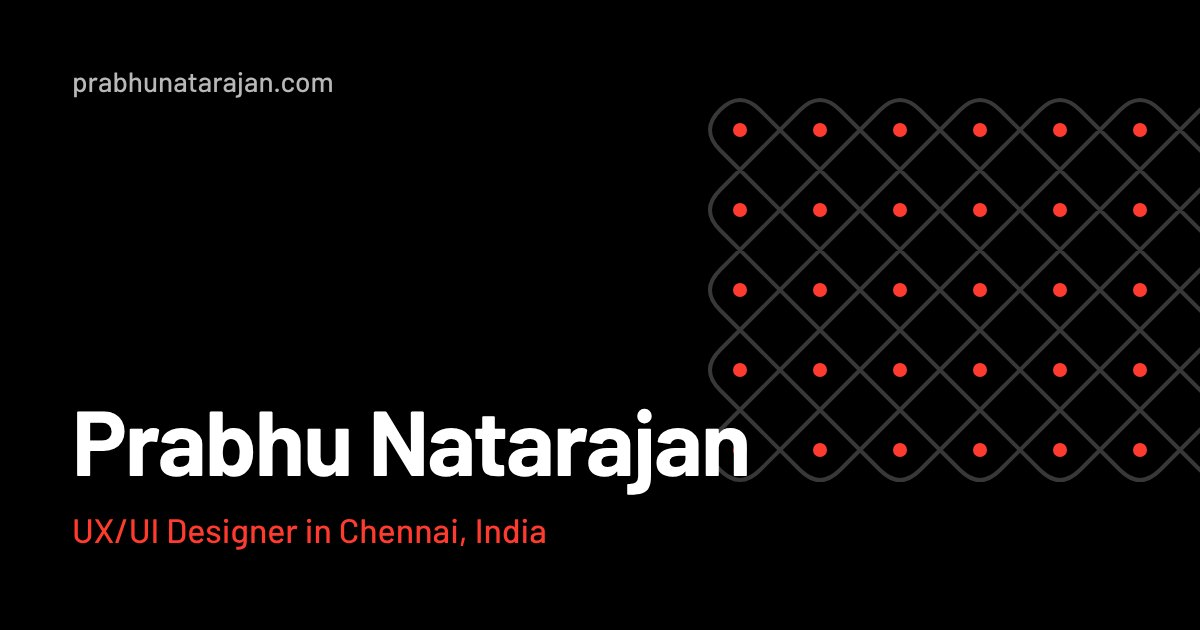
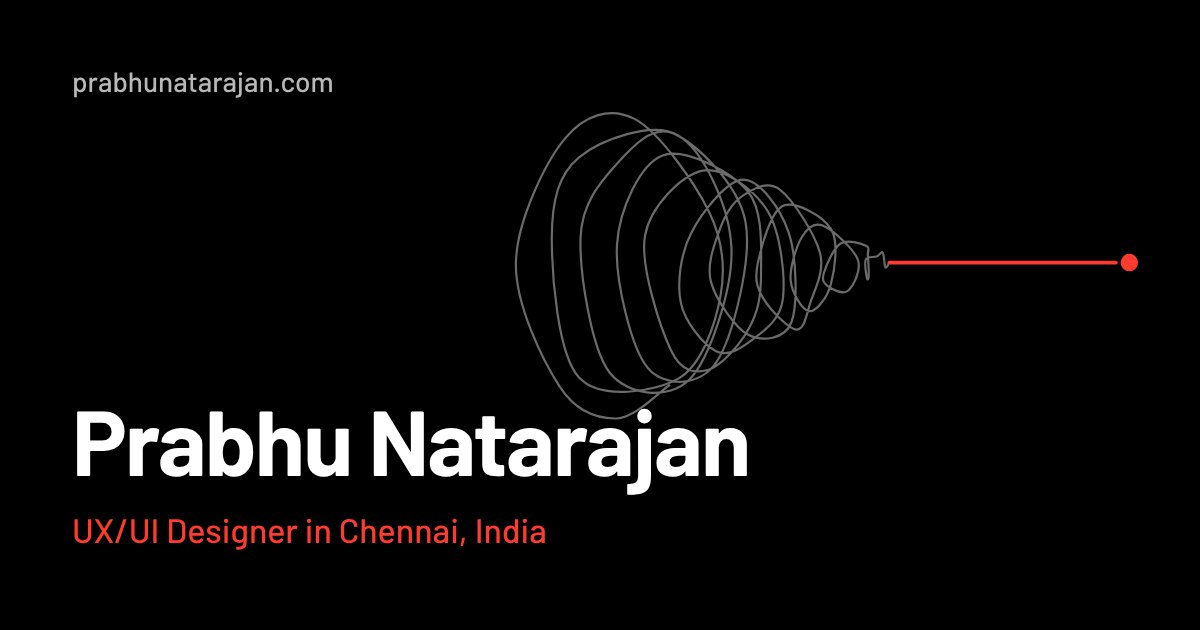
Hero section updated
Hero section updates

diff --git a/index.html b/index.html
@@ -15,10 +15,10 @@
 <meta property="og:title" content="Prabhu Natarajan — UX/UI Designer in Chennai, India">
 <meta property="og:description" content="UX/UI designer and HFI Certified Usability Architect (CUA)™. Research-led, accessible interfaces for eCommerce, fintech, mortgage and healthcare.">
 <meta property="og:url" content="https://www.prabhunatarajan.com/">
-<meta property="og:image" content="https://www.prabhunatarajan.com/assets/img/og-image.jpg">
+<meta property="og:image" content="https://www.prabhunatarajan.com/assets/img/og-image.jpg?v=2">
 <meta property="og:image:width" content="1200">
 <meta property="og:image:height" content="630">
-<meta property="og:image:alt" content="Prabhu Natarajan, UX/UI Designer — a kolam line pattern in black and red">
+<meta property="og:image:alt" content="Prabhu Natarajan, UX/UI Designer — user-experience line art in black and red">
 <meta property="og:locale" content="en_IN">
 <meta property="profile:first_name" content="Prabhu">
 <meta property="profile:last_name" content="Natarajan">
@@ -26,7 +26,7 @@
 <meta name="twitter:title" content="Prabhu Natarajan — UX/UI Designer in Chennai, India">
 <meta name="twitter:description" content="Research-led, accessible interfaces for eCommerce, fintech, mortgage and healthcare.">
 <meta name="twitter:image:alt" content="Prabhu Natarajan, UX/UI Designer in Chennai, India">
-<meta name="twitter:image" content="https://www.prabhunatarajan.com/assets/img/og-image.jpg">
+<meta name="twitter:image" content="https://www.prabhunatarajan.com/assets/img/og-image.jpg?v=2">
 
 <link rel="icon" href="/favicon.svg?v=4" type="image/svg+xml">
 <link rel="icon" href="/favicon-32.png?v=4" sizes="32x32" type="image/png">
@@ -35,7 +35,7 @@
 
 <link rel="preload" href="assets/fonts/barlow-700.woff2" as="font" type="font/woff2" crossorigin>
 <link rel="preload" href="assets/fonts/barlow-400.woff2" as="font" type="font/woff2" crossorigin>
-<link rel="stylesheet" href="assets/css/style.css?v=20261120g">
+<link rel="stylesheet" href="assets/css/style.css?v=20261120h">
 <script>document.documentElement.classList.replace('no-js','js')</script>
 
 <script type="application/ld+json">
@@ -405,12 +405,10 @@
       <div class="pillar pillar--l"><svg class="pillar__cap" viewBox="0 0 120 220" focusable="false"><path fill="none" stroke="currentColor" stroke-width="1.6" stroke-linecap="round" stroke-linejoin="round" d="M2 2H96V14H2Z"/><path fill="none" stroke="currentColor" stroke-width="1.6" stroke-linecap="round" stroke-linejoin="round" d="M6 14v8h5v-8M15 14v8h5v-8M24 14v8h5v-8M33 14v8h5v-8M42 14v8h5v-8M51 14v8h5v-8M60 14v8h5v-8M69 14v8h5v-8M78 14v8h5v-8M87 14v8h5v-8"/><g class="pl-accent"><circle cx="8" cy="28" r="1.6"/><circle cx="16" cy="28" r="1.6"/><circle cx="24" cy="28" r="1.6"/><circle cx="32" cy="28" r="1.6"/><circle cx="40" cy="28" r="1.6"/><circle cx="48" cy="28" r="1.6"/><circle cx="56" cy="28" r="1.6"/><circle cx="64" cy="28" r="1.6"/><circle cx="72" cy="28" r="1.6"/><circle cx="80" cy="28" r="1.6"/><circle cx="88" cy="28" r="1.6"/></g><path fill="none" stroke="currentColor" stroke-width="1.6" stroke-linecap="round" stroke-linejoin="round" d="M4 34H92"/><path fill="none" stroke="currentColor" stroke-width="1.6" stroke-linecap="round" stroke-linejoin="round" d="M80 34H96Q114 34 114 52Q114 66 100 66Q90 66 90 56Q90 48 98 48Q104 48 104 54"/><path fill="none" stroke="currentColor" stroke-width="1.6" stroke-linecap="round" stroke-linejoin="round" d="M80 66Q96 70 104 84Q108 92 108 104"/><path fill="none" stroke="currentColor" stroke-width="1.6" stroke-linecap="round" stroke-linejoin="round" d="M84 46Q86 58 80 66"/><path fill="none" stroke="currentColor" stroke-width="1.6" stroke-linecap="round" stroke-linejoin="round" d="M92 74q6 2 8 8M88 80q5 2 6 7"/><g class="pl-pendant"><path fill="none" stroke="currentColor" stroke-width="1.6" stroke-linecap="round" stroke-linejoin="round" d="M108 104V114"/><path fill="none" stroke="currentColor" stroke-width="1.6" stroke-linecap="round" stroke-linejoin="round" d="M101 114h14v5h-14z"/><path fill="none" stroke="currentColor" stroke-width="1.6" stroke-linecap="round" stroke-linejoin="round" d="M100 119Q100 140 108 152Q116 140 116 119Z"/><path fill="none" stroke="currentColor" stroke-width="1.6" stroke-linecap="round" stroke-linejoin="round" d="M104 120Q104 136 108 146M112 120Q112 136 108 146M100 128h16M101 136h14"/><path fill="none" stroke="currentColor" stroke-width="1.6" stroke-linecap="round" stroke-linejoin="round" d="M108 152v8"/><circle class="pl-accent-fill" cx="108" cy="163" r="2.6"/></g><path fill="none" stroke="currentColor" stroke-width="1.6" stroke-linecap="round" stroke-linejoin="round" d="M6 34V220M80 34V220"/><path fill="none" stroke="currentColor" stroke-width="1.6" stroke-linecap="round" stroke-linejoin="round" d="M14 44H72"/><path fill="none" stroke="currentColor" stroke-width="1.6" stroke-linecap="round" stroke-linejoin="round" d="M18 48Q10 62 14 78Q20 100 43 104Q66 100 72 78Q76 62 68 48Z"/><path fill="none" stroke="currentColor" stroke-width="1.6" stroke-linecap="round" stroke-linejoin="round" d="M24 60Q43 72 62 60M22 72Q43 86 64 72"/><circle class="pl-accent-fill" cx="43" cy="88" r="2.4"/><path fill="none" stroke="currentColor" stroke-width="1.6" stroke-linecap="round" stroke-linejoin="round" d="M10.0 128Q10.6 112.0 15.5 112.0Q20.4 112.0 21.0 128M15.5 128V120.0M21.0 128Q21.6 112.0 26.5 112.0Q31.4 112.0 32.0 128M26.5 128V120.0M32.0 128Q32.5 112.0 37.5 112.0Q42.5 112.0 43.0 128M37.5 128V120.0M43.0 128Q43.5 112.0 48.5 112.0Q53.5 112.0 54.0 128M48.5 128V120.0M54.0 128Q54.5 112.0 59.5 112.0Q64.5 112.0 65.0 128M59.5 128V120.0M65.0 128Q65.5 112.0 70.5 112.0Q75.5 112.0 76.0 128M70.5 128V120.0"/><path fill="none" stroke="currentColor" stroke-width="1.6" stroke-linecap="round" stroke-linejoin="round" d="M10 128H76M10 134H76"/><path fill="none" stroke="currentColor" stroke-width="1.6" stroke-linecap="round" stroke-linejoin="round" d="M14 140H72L68 150H18Z"/><path fill="none" stroke="currentColor" stroke-width="1.6" stroke-linecap="round" stroke-linejoin="round" d="M12.0 160Q12.6 172.0 18.2 172.0Q23.8 172.0 24.4 160M18.2 160V166.0M24.4 160Q25.0 172.0 30.6 172.0Q36.2 172.0 36.8 160M30.6 160V166.0M36.8 160Q37.4 172.0 43.0 172.0Q48.6 172.0 49.2 160M43.0 160V166.0M49.2 160Q49.8 172.0 55.4 172.0Q61.0 172.0 61.6 160M55.4 160V166.0M61.6 160Q62.2 172.0 67.8 172.0Q73.4 172.0 74.0 160M67.8 160V166.0"/><path fill="none" stroke="currentColor" stroke-width="1.6" stroke-linecap="round" stroke-linejoin="round" d="M10 176H76"/><g class="pl-accent"><circle cx="14" cy="184" r="1.5"/><circle cx="22" cy="184" r="1.5"/><circle cx="30" cy="184" r="1.5"/><circle cx="38" cy="184" r="1.5"/><circle cx="46" cy="184" r="1.5"/><circle cx="54" cy="184" r="1.5"/><circle cx="62" cy="184" r="1.5"/><circle cx="70" cy="184" r="1.5"/></g><path fill="none" stroke="currentColor" stroke-width="1.6" stroke-linecap="round" stroke-linejoin="round" d="M10 192H76M10 220V192M76 220V192"/><path fill="none" stroke="currentColor" stroke-width="1.6" stroke-linecap="round" stroke-linejoin="round" d="M30 48Q34 40 43 38Q52 40 56 48"/><path fill="none" stroke="currentColor" stroke-width="1.6" stroke-linecap="round" stroke-linejoin="round" d="M36 48q2-6 7-8q5 2 7 8"/><path fill="none" stroke="currentColor" stroke-width="1.6" stroke-linecap="round" stroke-linejoin="round" d="M98 40q10 2 10 12M102 58q-4 0-4-4"/><path fill="none" stroke="currentColor" stroke-width="1.6" stroke-linecap="round" stroke-linejoin="round" d="M86 38l-4 8M92 38l-4 8"/><path fill="none" stroke="currentColor" stroke-width="1.6" stroke-linecap="round" stroke-linejoin="round" d="M16 112q27 10 54 0"/></svg><div class="pillar__shaft"></div><svg class="pillar__base" viewBox="0 0 120 170" focusable="false"><path fill="none" stroke="currentColor" stroke-width="1.6" stroke-linecap="round" stroke-linejoin="round" d="M6 0V24M80 0V24"/><path fill="none" stroke="currentColor" stroke-width="1.6" stroke-linecap="round" stroke-linejoin="round" d="M6 24H80"/><path fill="none" stroke="currentColor" stroke-width="1.6" stroke-linecap="round" stroke-linejoin="round" d="M8.0 52Q8.6 28.0 13.8 28.0Q19.1 28.0 19.7 52M13.8 52V40.0M19.7 52Q20.2 28.0 25.5 28.0Q30.7 28.0 31.3 52M25.5 52V40.0M31.3 52Q31.9 28.0 37.2 28.0Q42.4 28.0 43.0 52M37.2 52V40.0M43.0 52Q43.6 28.0 48.8 28.0Q54.1 28.0 54.7 52M48.8 52V40.0M54.7 52Q55.2 28.0 60.5 28.0Q65.8 28.0 66.3 52M60.5 52V40.0M66.3 52Q66.9 28.0 72.2 28.0Q77.4 28.0 78.0 52M72.2 52V40.0"/><path fill="none" stroke="currentColor" stroke-width="1.6" stroke-linecap="round" stroke-linejoin="round" d="M4 52H82V60H4Z"/><g class="pl-accent"><circle cx="11" cy="68" r="1.6"/><circle cx="20" cy="68" r="1.6"/><circle cx="29" cy="68" r="1.6"/><circle cx="38" cy="68" r="1.6"/><circle cx="47" cy="68" r="1.6"/><circle cx="56" cy="68" r="1.6"/><circle cx="65" cy="68" r="1.6"/><circle cx="74" cy="68" r="1.6"/></g><path fill="none" stroke="currentColor" stroke-width="1.6" stroke-linecap="round" stroke-linejoin="round" d="M2 76H84V110H2Z"/><path fill="none" stroke="currentColor" stroke-width="1.6" stroke-linecap="round" stroke-linejoin="round" d="M8 80v26M15 80v26M22 80v26M29 80v26M36 80v26M43 80v26M50 80v26M57 80v26M64 80v26M71 80v26M78 80v26"/><path fill="none" stroke="currentColor" stroke-width="1.6" stroke-linecap="round" stroke-linejoin="round" d="M0 114H88V126H0Z"/><path fill="none" stroke="currentColor" stroke-width="1.6" stroke-linecap="round" stroke-linejoin="round" d="M0.0 126Q0.6 136.0 5.5 136.0Q10.4 136.0 11.0 126M5.5 126V131.0M11.0 126Q11.6 136.0 16.5 136.0Q21.4 136.0 22.0 126M16.5 126V131.0M22.0 126Q22.6 136.0 27.5 136.0Q32.5 136.0 33.0 126M27.5 126V131.0M33.0 126Q33.5 136.0 38.5 136.0Q43.5 136.0 44.0 126M38.5 126V131.0M44.0 126Q44.5 136.0 49.5 136.0Q54.5 136.0 55.0 126M49.5 126V131.0M55.0 126Q55.5 136.0 60.5 136.0Q65.5 136.0 66.0 126M60.5 126V131.0M66.0 126Q66.5 136.0 71.5 136.0Q76.5 136.0 77.0 126M71.5 126V131.0M77.0 126Q77.5 136.0 82.5 136.0Q87.5 136.0 88.0 126M82.5 126V131.0"/><path fill="none" stroke="currentColor" stroke-width="1.6" stroke-linecap="round" stroke-linejoin="round" d="M0 142H92V154H0ZM0 158H96V170H0Z"/></svg></div>
       <div class="pillar pillar--r"><svg class="pillar__cap" viewBox="0 0 120 220" focusable="false"><path fill="none" stroke="currentColor" stroke-width="1.6" stroke-linecap="round" stroke-linejoin="round" d="M2 2H96V14H2Z"/><path fill="none" stroke="currentColor" stroke-width="1.6" stroke-linecap="round" stroke-linejoin="round" d="M6 14v8h5v-8M15 14v8h5v-8M24 14v8h5v-8M33 14v8h5v-8M42 14v8h5v-8M51 14v8h5v-8M60 14v8h5v-8M69 14v8h5v-8M78 14v8h5v-8M87 14v8h5v-8"/><g class="pl-accent"><circle cx="8" cy="28" r="1.6"/><circle cx="16" cy="28" r="1.6"/><circle cx="24" cy="28" r="1.6"/><circle cx="32" cy="28" r="1.6"/><circle cx="40" cy="28" r="1.6"/><circle cx="48" cy="28" r="1.6"/><circle cx="56" cy="28" r="1.6"/><circle cx="64" cy="28" r="1.6"/><circle cx="72" cy="28" r="1.6"/><circle cx="80" cy="28" r="1.6"/><circle cx="88" cy="28" r="1.6"/></g><path fill="none" stroke="currentColor" stroke-width="1.6" stroke-linecap="round" stroke-linejoin="round" d="M4 34H92"/><path fill="none" stroke="currentColor" stroke-width="1.6" stroke-linecap="round" stroke-linejoin="round" d="M80 34H96Q114 34 114 52Q114 66 100 66Q90 66 90 56Q90 48 98 48Q104 48 104 54"/><path fill="none" stroke="currentColor" stroke-width="1.6" stroke-linecap="round" stroke-linejoin="round" d="M80 66Q96 70 104 84Q108 92 108 104"/><path fill="none" stroke="currentColor" stroke-width="1.6" stroke-linecap="round" stroke-linejoin="round" d="M84 46Q86 58 80 66"/><path fill="none" stroke="currentColor" stroke-width="1.6" stroke-linecap="round" stroke-linejoin="round" d="M92 74q6 2 8 8M88 80q5 2 6 7"/><g class="pl-pendant"><path fill="none" stroke="currentColor" stroke-width="1.6" stroke-linecap="round" stroke-linejoin="round" d="M108 104V114"/><path fill="none" stroke="currentColor" stroke-width="1.6" stroke-linecap="round" stroke-linejoin="round" d="M101 114h14v5h-14z"/><path fill="none" stroke="currentColor" stroke-width="1.6" stroke-linecap="round" stroke-linejoin="round" d="M100 119Q100 140 108 152Q116 140 116 119Z"/><path fill="none" stroke="currentColor" stroke-width="1.6" stroke-linecap="round" stroke-linejoin="round" d="M104 120Q104 136 108 146M112 120Q112 136 108 146M100 128h16M101 136h14"/><path fill="none" stroke="currentColor" stroke-width="1.6" stroke-linecap="round" stroke-linejoin="round" d="M108 152v8"/><circle class="pl-accent-fill" cx="108" cy="163" r="2.6"/></g><path fill="none" stroke="currentColor" stroke-width="1.6" stroke-linecap="round" stroke-linejoin="round" d="M6 34V220M80 34V220"/><path fill="none" stroke="currentColor" stroke-width="1.6" stroke-linecap="round" stroke-linejoin="round" d="M14 44H72"/><path fill="none" stroke="currentColor" stroke-width="1.6" stroke-linecap="round" stroke-linejoin="round" d="M18 48Q10 62 14 78Q20 100 43 104Q66 100 72 78Q76 62 68 48Z"/><path fill="none" stroke="currentColor" stroke-width="1.6" stroke-linecap="round" stroke-linejoin="round" d="M24 60Q43 72 62 60M22 72Q43 86 64 72"/><circle class="pl-accent-fill" cx="43" cy="88" r="2.4"/><path fill="none" stroke="currentColor" stroke-width="1.6" stroke-linecap="round" stroke-linejoin="round" d="M10.0 128Q10.6 112.0 15.5 112.0Q20.4 112.0 21.0 128M15.5 128V120.0M21.0 128Q21.6 112.0 26.5 112.0Q31.4 112.0 32.0 128M26.5 128V120.0M32.0 128Q32.5 112.0 37.5 112.0Q42.5 112.0 43.0 128M37.5 128V120.0M43.0 128Q43.5 112.0 48.5 112.0Q53.5 112.0 54.0 128M48.5 128V120.0M54.0 128Q54.5 112.0 59.5 112.0Q64.5 112.0 65.0 128M59.5 128V120.0M65.0 128Q65.5 112.0 70.5 112.0Q75.5 112.0 76.0 128M70.5 128V120.0"/><path fill="none" stroke="currentColor" stroke-width="1.6" stroke-linecap="round" stroke-linejoin="round" d="M10 128H76M10 134H76"/><path fill="none" stroke="currentColor" stroke-width="1.6" stroke-linecap="round" stroke-linejoin="round" d="M14 140H72L68 150H18Z"/><path fill="none" stroke="currentColor" stroke-width="1.6" stroke-linecap="round" stroke-linejoin="round" d="M12.0 160Q12.6 172.0 18.2 172.0Q23.8 172.0 24.4 160M18.2 160V166.0M24.4 160Q25.0 172.0 30.6 172.0Q36.2 172.0 36.8 160M30.6 160V166.0M36.8 160Q37.4 172.0 43.0 172.0Q48.6 172.0 49.2 160M43.0 160V166.0M49.2 160Q49.8 172.0 55.4 172.0Q61.0 172.0 61.6 160M55.4 160V166.0M61.6 160Q62.2 172.0 67.8 172.0Q73.4 172.0 74.0 160M67.8 160V166.0"/><path fill="none" stroke="currentColor" stroke-width="1.6" stroke-linecap="round" stroke-linejoin="round" d="M10 176H76"/><g class="pl-accent"><circle cx="14" cy="184" r="1.5"/><circle cx="22" cy="184" r="1.5"/><circle cx="30" cy="184" r="1.5"/><circle cx="38" cy="184" r="1.5"/><circle cx="46" cy="184" r="1.5"/><circle cx="54" cy="184" r="1.5"/><circle cx="62" cy="184" r="1.5"/><circle cx="70" cy="184" r="1.5"/></g><path fill="none" stroke="currentColor" stroke-width="1.6" stroke-linecap="round" stroke-linejoin="round" d="M10 192H76M10 220V192M76 220V192"/><path fill="none" stroke="currentColor" stroke-width="1.6" stroke-linecap="round" stroke-linejoin="round" d="M30 48Q34 40 43 38Q52 40 56 48"/><path fill="none" stroke="currentColor" stroke-width="1.6" stroke-linecap="round" stroke-linejoin="round" d="M36 48q2-6 7-8q5 2 7 8"/><path fill="none" stroke="currentColor" stroke-width="1.6" stroke-linecap="round" stroke-linejoin="round" d="M98 40q10 2 10 12M102 58q-4 0-4-4"/><path fill="none" stroke="currentColor" stroke-width="1.6" stroke-linecap="round" stroke-linejoin="round" d="M86 38l-4 8M92 38l-4 8"/><path fill="none" stroke="currentColor" stroke-width="1.6" stroke-linecap="round" stroke-linejoin="round" d="M16 112q27 10 54 0"/></svg><div class="pillar__shaft"></div><svg class="pillar__base" viewBox="0 0 120 170" focusable="false"><path fill="none" stroke="currentColor" stroke-width="1.6" stroke-linecap="round" stroke-linejoin="round" d="M6 0V24M80 0V24"/><path fill="none" stroke="currentColor" stroke-width="1.6" stroke-linecap="round" stroke-linejoin="round" d="M6 24H80"/><path fill="none" stroke="currentColor" stroke-width="1.6" stroke-linecap="round" stroke-linejoin="round" d="M8.0 52Q8.6 28.0 13.8 28.0Q19.1 28.0 19.7 52M13.8 52V40.0M19.7 52Q20.2 28.0 25.5 28.0Q30.7 28.0 31.3 52M25.5 52V40.0M31.3 52Q31.9 28.0 37.2 28.0Q42.4 28.0 43.0 52M37.2 52V40.0M43.0 52Q43.6 28.0 48.8 28.0Q54.1 28.0 54.7 52M48.8 52V40.0M54.7 52Q55.2 28.0 60.5 28.0Q65.8 28.0 66.3 52M60.5 52V40.0M66.3 52Q66.9 28.0 72.2 28.0Q77.4 28.0 78.0 52M72.2 52V40.0"/><path fill="none" stroke="currentColor" stroke-width="1.6" stroke-linecap="round" stroke-linejoin="round" d="M4 52H82V60H4Z"/><g class="pl-accent"><circle cx="11" cy="68" r="1.6"/><circle cx="20" cy="68" r="1.6"/><circle cx="29" cy="68" r="1.6"/><circle cx="38" cy="68" r="1.6"/><circle cx="47" cy="68" r="1.6"/><circle cx="56" cy="68" r="1.6"/><circle cx="65" cy="68" r="1.6"/><circle cx="74" cy="68" r="1.6"/></g><path fill="none" stroke="currentColor" stroke-width="1.6" stroke-linecap="round" stroke-linejoin="round" d="M2 76H84V110H2Z"/><path fill="none" stroke="currentColor" stroke-width="1.6" stroke-linecap="round" stroke-linejoin="round" d="M8 80v26M15 80v26M22 80v26M29 80v26M36 80v26M43 80v26M50 80v26M57 80v26M64 80v26M71 80v26M78 80v26"/><path fill="none" stroke="currentColor" stroke-width="1.6" stroke-linecap="round" stroke-linejoin="round" d="M0 114H88V126H0Z"/><path fill="none" stroke="currentColor" stroke-width="1.6" stroke-linecap="round" stroke-linejoin="round" d="M0.0 126Q0.6 136.0 5.5 136.0Q10.4 136.0 11.0 126M5.5 126V131.0M11.0 126Q11.6 136.0 16.5 136.0Q21.4 136.0 22.0 126M16.5 126V131.0M22.0 126Q22.6 136.0 27.5 136.0Q32.5 136.0 33.0 126M27.5 126V131.0M33.0 126Q33.5 136.0 38.5 136.0Q43.5 136.0 44.0 126M38.5 126V131.0M44.0 126Q44.5 136.0 49.5 136.0Q54.5 136.0 55.0 126M49.5 126V131.0M55.0 126Q55.5 136.0 60.5 136.0Q65.5 136.0 66.0 126M60.5 126V131.0M66.0 126Q66.5 136.0 71.5 136.0Q76.5 136.0 77.0 126M71.5 126V131.0M77.0 126Q77.5 136.0 82.5 136.0Q87.5 136.0 88.0 126M82.5 126V131.0"/><path fill="none" stroke="currentColor" stroke-width="1.6" stroke-linecap="round" stroke-linejoin="round" d="M0 142H92V154H0ZM0 158H96V170H0Z"/></svg></div>
     </div>
-    <div class="hero__kolam" aria-hidden="true">
-      <svg viewBox="-30 -30 620 460" class="kolam" focusable="false">
-        <path class="kolam__line" d="M20,20Q0,40 20,60Q40,80 60,100Q80,120 100,140Q120,160 140,180Q160,200 180,220Q200,240 220,260Q240,280 260,300Q280,320 300,340Q320,360 340,380Q360,400 380,380Q400,360 420,340Q440,320 460,300Q480,280 500,260Q520,240 540,220Q560,200 540,180Q520,160 500,140Q480,120 460,100Q440,80 420,60Q400,40 380,20Q360,0 340,20Q320,40 300,60Q280,80 260,100Q240,120 220,140Q200,160 180,180Q160,200 140,220Q120,240 100,260Q80,280 60,300Q40,320 20,340Q0,360 20,380Q40,400 60,380Q80,360 100,340Q120,320 140,300Q160,280 180,260Q200,240 220,220Q240,200 260,180Q280,160 300,140Q320,120 340,100Q360,80 380,60Q400,40 420,20Q440,0 460,20Q480,40 500,60Q520,80 540,100Q560,120 540,140Q520,160 500,180Q480,200 460,220Q440,240 420,260Q400,280 380,300Q360,320 340,340Q320,360 300,380Q280,400 260,380Q240,360 220,340Q200,320 180,300Q160,280 140,260Q120,240 100,220Q80,200 60,180Q40,160 20,140Q0,120 20,100Q40,80 60,60Q80,40 100,20Q120,0 140,20Q160,40 180,60Q200,80 220,100Q240,120 260,140Q280,160 300,180Q320,200 340,220Q360,240 380,260Q400,280 420,300Q440,320 460,340Q480,360 500,380Q520,400 540,380Q560,360 540,340Q520,320 500,300Q480,280 460,260Q440,240 420,220Q400,200 380,180Q360,160 340,140Q320,120 300,100Q280,80 260,60Q240,40 220,20Q200,0 180,20Q160,40 140,60Q120,80 100,100Q80,120 60,140Q40,160 20,180Q0,200 20,220Q40,240 60,260Q80,280 100,300Q120,320 140,340Q160,360 180,380Q200,400 220,380Q240,360 260,340Q280,320 300,300Q320,280 340,260Q360,240 380,220Q400,200 420,180Q440,160 460,140Q480,120 500,100Q520,80 540,60Q560,40 540,20Q520,0 500,20Q480,40 460,60Q440,80 420,100Q400,120 380,140Q360,160 340,180Q320,200 300,220Q280,240 260,260Q240,280 220,300Q200,320 180,340Q160,360 140,380Q120,400 100,380Q80,360 60,340Q40,320 20,300Q0,280 20,260Q40,240 60,220Q80,200 100,180Q120,160 140,140Q160,120 180,100Q200,80 220,60Q240,40 260,20Q280,0 300,20Q320,40 340,60Q360,80 380,100Q400,120 420,140Q440,160 460,180Q480,200 500,220Q520,240 540,260Q560,280 540,300Q520,320 500,340Q480,360 460,380Q440,400 420,380Q400,360 380,340Q360,320 340,300Q320,280 300,260Q280,240 260,220Q240,200 220,180Q200,160 180,140Q160,120 140,100Q120,80 100,60Q80,40 60,20Q40,0 20,20Z" pathLength="1"/>
-        <g class="kolam__dots"><circle cx="40" cy="40" r="6"/><circle cx="40" cy="120" r="6"/><circle cx="40" cy="200" r="6"/><circle cx="40" cy="280" r="6"/><circle cx="40" cy="360" r="6"/><circle cx="120" cy="40" r="6"/><circle cx="120" cy="120" r="6"/><circle cx="120" cy="200" r="6"/><circle cx="120" cy="280" r="6"/><circle cx="120" cy="360" r="6"/><circle cx="200" cy="40" r="6"/><circle cx="200" cy="120" r="6"/><circle cx="200" cy="200" r="6"/><circle cx="200" cy="280" r="6"/><circle cx="200" cy="360" r="6"/><circle cx="280" cy="40" r="6"/><circle cx="280" cy="120" r="6"/><circle cx="280" cy="200" r="6"/><circle cx="280" cy="280" r="6"/><circle cx="280" cy="360" r="6"/><circle cx="360" cy="40" r="6"/><circle cx="360" cy="120" r="6"/><circle cx="360" cy="200" r="6"/><circle cx="360" cy="280" r="6"/><circle cx="360" cy="360" r="6"/><circle cx="440" cy="40" r="6"/><circle cx="440" cy="120" r="6"/><circle cx="440" cy="200" r="6"/><circle cx="440" cy="280" r="6"/><circle cx="440" cy="360" r="6"/><circle cx="520" cy="40" r="6"/><circle cx="520" cy="120" r="6"/><circle cx="520" cy="200" r="6"/><circle cx="520" cy="280" r="6"/><circle cx="520" cy="360" r="6"/></g>
-      </svg>
+    <div class="hero__art" aria-hidden="true">
+      <svg viewBox="-30 -30 620 460" class="pattern pattern--tangle" data-pattern="tangle" focusable="false"><path class="pt-line pt-draw pt-strong" d="M72.6 326.8C63.5 332.5 37 360.9 18.1 361.1C-0.9 361.4 -23.5 354.8 -40.8 328C-58.1 301.1 -86.9 242.8 -85.9 200.1C-85 157.3 -55.6 96.5 -35.1 71.7C-14.7 47 11.8 38.9 36.6 51.5C61.4 64.1 98.7 116.8 113.5 147.2C128.4 177.6 130.8 205.2 125.6 234C120.4 262.7 106.7 305.5 82.3 319.6C57.9 333.7 1 342.8 -20.9 318.6C-42.8 294.3 -48.9 212.3 -48.8 174.4C-48.7 136.4 -42.1 108.6 -20.3 91C1.5 73.3 55.5 53 81.7 68.6C107.9 84.1 134.8 142.2 136.8 184.3C138.7 226.3 114.4 299.4 93.4 320.9C72.3 342.4 29.4 337.7 10.7 313.3C-8.1 288.8 -20.3 210.1 -19.1 174.2C-17.9 138.4 1.9 116.2 18 98.3C34.1 80.4 55.3 56.9 77.5 66.8C99.7 76.7 144 118.2 151.3 157.6C158.6 197 138 277.9 121.1 303.2C104.3 328.4 67.5 329.3 50.4 308.9C33.3 288.6 16.2 217.7 18.6 181.1C21 144.5 42.5 98.6 65 89.5C87.5 80.4 136.6 105.8 153.6 126.3C170.7 146.7 167.2 188.6 167.4 212.3C167.5 236 163.8 252 154.7 268.4C145.6 284.8 126.4 307 113 310.7C99.6 314.4 85.2 313.7 74.3 290.6C63.4 267.6 42 203.2 47.5 172.3C53 141.4 86 109.3 107.1 105C128.2 100.7 160.3 124.4 174.1 146.6C187.9 168.8 192.7 215.7 189.9 238C187.1 260.3 169 271.6 157.4 280.4C145.8 289.3 132.6 297.8 120.5 291.3C108.3 284.9 88.8 262 84.6 241.8C80.3 221.6 84.2 191.1 95 169.9C105.7 148.7 132.2 114.5 149 114.3C165.8 114.1 187.6 144.1 195.9 168.7C204.2 193.3 205.6 244.2 198.7 261.9C191.9 279.6 168.6 281.8 154.8 274.9C141 268 120.9 238.6 115.8 220.5C110.8 202.4 119.1 181.3 124.5 166.4C129.8 151.5 137.6 138.3 147.9 131.3C158.2 124.3 173.1 114.7 186.5 124.4C199.9 134.2 223 170.2 228.3 189.8C233.6 209.4 222.3 228.7 218.2 241.9C214.1 255.1 211.9 269.9 203.9 269.2C195.8 268.4 176.6 248.6 169.9 237.3C163.2 226.1 160.6 217.5 163.9 201.6C167.2 185.6 177.1 147.5 189.7 141.5C202.4 135.5 231.6 151.9 239.8 165.4C248.1 178.9 243.3 208.5 239.5 222.6C235.7 236.8 224.1 250.9 217.2 250.3C210.3 249.7 199.4 231.5 198.1 218.9C196.7 206.2 203.7 183.8 209.2 174.3C214.7 164.8 221.4 158 231.1 161.7C240.8 165.4 262.9 185.4 267.3 196.6C271.6 207.9 262.6 224.6 257.3 229.1C252.1 233.7 240.1 227.2 236 224.1C231.8 220.9 230.2 217.6 232.5 210.3C234.7 203 242.4 184.9 249.6 180.3C256.9 175.6 271.2 180.5 275.9 182.6C280.6 184.6 277.3 187.6 277.8 192.6C278.2 197.7 278.8 208.8 278.7 212.7C278.5 216.7 277.4 219 276.9 216.3C276.4 213.7 274 200.5 275.7 196.7C277.4 193 284 194.9 286.9 193.8C289.9 192.6 291.7 187.8 293.2 189.7C294.7 191.6 294.7 203.2 295.9 204.9C297 206.6 299.3 200.8 300 200" pathLength="1" style="--d:0.20s;--t:2.6s"/><path class="pt-acc pt-draw" d="M300 200H534" pathLength="1" style="--d:2.70s;--t:0.9s"/><g class="pt-fade" style="--d:3.45s"><circle class="pt-dot" cx="548" cy="200" r="9"/></g></svg><svg viewBox="-30 -30 620 460" class="pattern pattern--wireframe" data-pattern="wireframe" focusable="false"><path class="pt-line pt-draw" d="M12 0H548Q560 0 560 12V388Q560 400 548 400H12Q0 400 0 388V12Q0 0 12 0Z" pathLength="1" style="--d:0.20s;--t:1.4s"/><path class="pt-line pt-draw" d="M0 34H560" pathLength="1" style="--d:0.60s;--t:0.6s"/><g class="pt-fade" style="--d:.9s"><circle class="pt-line" cx="22" cy="17" r="5"/><circle class="pt-line" cx="40" cy="17" r="5"/><circle class="pt-line" cx="58" cy="17" r="5"/><rect class="pt-line" x="90" y="9" width="300" height="16" rx="8"/></g><path class="pt-line pt-draw" d="M24 54H84V68H24Z M330 61H370 M386 61H426 M442 61H482" pathLength="1" style="--d:1.00s;--t:0.8s"/><path class="pt-line pt-draw" d="M24 92H246Q260 92 260 106V248Q260 262 246 262H38Q24 262 24 248V106Q24 92 38 92Z M24 92L260 262 M260 92L24 262" pathLength="1" style="--d:1.20s;--t:1.2s"/><path class="pt-line pt-draw pt-strong" d="M300 108H530 M300 132H490" pathLength="1" style="--d:1.30s;--t:0.8s"/><path class="pt-line pt-draw" d="M300 166H520 M300 182H490 M300 198H510" pathLength="1" style="--d:1.60s;--t:0.8s"/><path class="pt-acc pt-draw" d="M317 222H393A17 17 0 0 1 393 256H317A17 17 0 0 1 317 222Z" pathLength="1" style="--d:2.10s;--t:0.8s"/><path class="pt-acc pt-draw" d="M326 239H372 M376 233L382 239L376 245" pathLength="1" style="--d:2.60s;--t:0.5s"/><path class="pt-line pt-draw" d="M32 290H176Q184 290 184 298V368Q184 376 176 376H32Q24 376 24 368V298Q24 290 32 290Z M40 346H130 M40 360H100" pathLength="1" style="--d:1.90s;--t:0.9s"/><path class="pt-line pt-draw" d="M208 290H352Q360 290 360 298V368Q360 376 352 376H208Q200 376 200 368V298Q200 290 208 290Z M216 346H306 M216 360H276" pathLength="1" style="--d:2.10s;--t:0.9s"/><path class="pt-line pt-draw" d="M384 290H528Q536 290 536 298V368Q536 376 528 376H384Q376 376 376 368V298Q376 290 384 290Z M392 346H482 M392 360H452" pathLength="1" style="--d:2.30s;--t:0.9s"/></svg><svg viewBox="-30 -30 620 460" class="pattern pattern--redlines" data-pattern="redlines" focusable="false"><g class="pt-fade" style="--d:.2s"><path class="pt-line pt-dash" d="M0 -10V410M70 -10V410M140 -10V410M210 -10V410M280 -10V410M350 -10V410M420 -10V410M490 -10V410M560 -10V410 M-10 64H570 M-10 336H570"/></g><g class="pt-fade" style="--d:1.6s"><rect class="pt-tint" x="70" y="90" width="32" height="220"/></g><path class="pt-line pt-draw" d="M86 90H404Q420 90 420 106V294Q420 310 404 310H86Q70 310 70 294V106Q70 90 86 90Z" pathLength="1" style="--d:0.60s;--t:1.2s"/><path class="pt-line pt-draw" d="M156 140A22 22 0 1 1 112 140A22 22 0 1 1 156 140Z M170 132H320 M170 152H280" pathLength="1" style="--d:1.00s;--t:0.8s"/><path class="pt-line pt-draw" d="M102 196H392 M102 214H362 M102 232H382" pathLength="1" style="--d:1.20s;--t:0.8s"/><path class="pt-line pt-draw pt-strong" d="M119 252H195A17 17 0 0 1 195 286H119A17 17 0 0 1 119 252Z M236 269H306" pathLength="1" style="--d:1.40s;--t:0.8s"/><path class="pt-acc pt-draw" d="M70 72H420 M70 64V80 M420 64V80" pathLength="1" style="--d:1.90s;--t:0.7s"/><path class="pt-acc pt-draw" d="M446 90V310 M438 90H454 M438 310H454" pathLength="1" style="--d:2.20s;--t:0.7s"/><path class="pt-acc pt-draw" d="M240 286V310 M232 286H248 M232 310H248" pathLength="1" style="--d:2.50s;--t:0.4s"/><g class="pt-fade" style="--d:2.6s"><text class="pt-label" x="245" y="56" text-anchor="middle">350</text><text class="pt-label" x="462" y="206">220</text><text class="pt-label" x="254" y="304">24</text><text class="pt-label" x="86" y="334" text-anchor="middle">32</text></g></svg><svg viewBox="-30 -30 620 460" class="pattern pattern--flow" data-pattern="flow" focusable="false"><path class="pt-line pt-draw" d="M20 170H60A20 20 0 0 1 60 210H20A20 20 0 0 1 20 170Z" pathLength="1" style="--d:0.20s;--t:0.6s"/><path class="pt-line pt-draw" d="M128 160H202Q210 160 210 168V212Q210 220 202 220H128Q120 220 120 212V168Q120 160 128 160Z M134 180H190 M134 196H174" pathLength="1" style="--d:0.50s;--t:0.7s"/><path class="pt-line pt-draw" d="M290 156L324 190L290 224L256 190Z" pathLength="1" style="--d:0.90s;--t:0.6s"/><path class="pt-line pt-draw" d="M388 40H462Q470 40 470 48V92Q470 100 462 100H388Q380 100 380 92V48Q380 40 388 40Z M394 60H450 M394 76H434" pathLength="1" style="--d:1.30s;--t:0.7s"/><path class="pt-line pt-draw" d="M388 160H462Q470 160 470 168V212Q470 220 462 220H388Q380 220 380 212V168Q380 160 388 160Z M394 180H450 M394 196H434" pathLength="1" style="--d:1.20s;--t:0.7s"/><path class="pt-line pt-draw" d="M388 280H462Q470 280 470 288V332Q470 340 462 340H388Q380 340 380 332V288Q380 280 388 280Z M394 300H450 M394 316H434" pathLength="1" style="--d:1.40s;--t:0.7s"/><path class="pt-line pt-draw" d="M290 156V70H380 M470 70H530V172" pathLength="1" style="--d:1.60s;--t:1s"/><path class="pt-line pt-draw" d="M290 224V310H380 M425 340V360H165V220" pathLength="1" style="--d:1.70s;--t:1.1s"/><path class="pt-acc pt-draw" d="M80 190H120 M210 190H256 M324 190H380 M470 190H512" pathLength="1" style="--d:2.20s;--t:1.4s"/><g class="pt-fade" style="--d:3.3s"><circle class="pt-dot" cx="530" cy="190" r="16"/></g></svg>
     </div>
+    <script>(function(){var a=document.querySelectorAll('.hero__art .pattern'),n=a.length,l=-1,i;try{l=parseInt(localStorage.getItem('heroPattern'),10)}catch(e){}i=Math.floor(Math.random()*n);if(n>1&&i===l)i=(i+1+Math.floor(Math.random()*(n-1)))%n;a[i].classList.add('is-on');try{localStorage.setItem('heroPattern',i)}catch(e){}})();</script>
     <div class="wrap hero__inner">
       <p class="hero__hello"><span lang="ta">வணக்கம்</span>, I’m Prabhu.</p>
       <h1 id="hero-title" class="hero__title">
@@ -961,6 +959,6 @@
   <div class="gallery__body" tabindex="0" aria-label="Project screens, scrollable"></div>
 </dialog>
 
-<script src="assets/js/main.js?v=20261120g" defer></script>
+<script src="assets/js/main.js?v=20261120h" defer></script>
 </body>
 </html>

diff --git a/assets/css/style.css b/assets/css/style.css
@@ -180,7 +180,7 @@ main:focus{outline:none}
 @media (prefers-reduced-motion:no-preference){.status__dot{animation:ping 2.4s var(--ease-out) infinite}}
 @keyframes ping{0%{box-shadow:0 0 0 0 rgba(255,59,47,.55)}80%,100%{box-shadow:0 0 0 12px rgba(255,59,47,0)}}
 
-.hero__kolam{position:absolute;top:calc(var(--header-h) + 1.5rem);right:calc(var(--gutter) * -1.5);width:min(54vw,860px);opacity:.9;pointer-events:none}
+.hero__art{position:absolute;top:calc(var(--header-h) + 1.5rem);right:calc(var(--gutter) * -1.5);width:min(54vw,860px);opacity:.9;pointer-events:none}
 .kolam__line{fill:none;stroke:var(--white);stroke-width:4;stroke-linecap:round;stroke-linejoin:round;opacity:.2}
 .kolam__dots circle{fill:var(--turmeric);transition:r .3s var(--ease-out),opacity .3s}
 .kolam__dots circle{opacity:.85}
@@ -189,7 +189,7 @@ main:focus{outline:none}
 @media (max-width:860px){
   .hero__title{font-size:clamp(2.6rem,11.5vw,5rem)}
   .hero{align-items:flex-end}
-  .hero__kolam{width:120vw;right:-45vw;top:calc(var(--header-h) - .5rem);opacity:.4}
+  .hero__art{width:120vw;right:-45vw;top:calc(var(--header-h) - .5rem);opacity:.4}
   .hero__foot{grid-template-columns:1fr}
   .hero__title{max-width:none}
 }
@@ -507,7 +507,7 @@ main:focus{outline:none}
 }
 
 @media print{
-  .site-header,.cursor,.hero__kolam,.gallery{display:none!important}
+  .site-header,.cursor,.hero__art,.gallery{display:none!important}
   [data-theme="dark"]{background:#fff;color:#000}
 }
 
@@ -885,12 +885,12 @@ main:focus{outline:none}
 .hero .wrap.hero__inner{padding-left:calc(var(--pw) + var(--gutter) * .75);padding-right:calc(var(--pw) + var(--gutter) * .75)}
 .hero__title{font-size:min(var(--step-5),11.5vh,6.6vw);line-height:1.04}
 .hero__title .line{padding:.06em 0 .16em;margin-bottom:-.14em}
-.hero__kolam{right:calc(var(--pw) + 1vw)}
+.hero__art{right:calc(var(--pw) + 1vw)}
 @media (max-width:860px){
   .hero{--pw:clamp(28px,8vw,52px)}
   .hero .wrap.hero__inner{padding-left:calc(var(--pw) + .9rem);padding-right:calc(var(--pw) + .9rem)}
   .hero__title{font-size:clamp(2.3rem,10.5vw,4.6rem);line-height:1.06}
-  .hero__kolam{right:-45vw}
+  .hero__art{right:-45vw}
 }
 
 /* ---------- Hero refinements: larger, fainter pillars; kolam always vertically centred ---------- */
@@ -898,12 +898,12 @@ main:focus{outline:none}
 .pillar{color:rgba(255,255,255,.09)}
 .pl-accent circle,.pl-accent-fill{opacity:.26}
 .hero__title{font-size:min(var(--step-5),11vh,6.1vw,7.6rem)}
-.hero__kolam{top:calc(50% + var(--header-h) / 2);transform:translateY(-50%)}
+.hero__art{top:calc(50% + var(--header-h) / 2);transform:translateY(-50%)}
 @media (max-width:860px){
   .hero{--pw:clamp(36px,11vw,68px)}
   .hero .wrap.hero__inner{padding-left:calc(var(--pw) + .7rem);padding-right:calc(var(--pw) + .7rem)}
   .hero__title{font-size:clamp(2.15rem,9.8vw,4.4rem)}
-  .hero__kolam{top:calc(50% + var(--header-h) / 2)}
+  .hero__art{top:calc(50% + var(--header-h) / 2)}
 }
 /* Wide screens: the centred content column only needs pillar clearance where the pillars actually reach it */
 @media (min-width:861px){
@@ -1147,3 +1147,28 @@ main:focus{outline:none}
   .faq__a{padding-right:0}
 }
 @media print{.faq__item:not([open]) .faq__a{display:block}}
+
+
+@media (min-width:861px){
+  .hero__art{width:min(40vw,620px);right:calc(var(--pw) + 2vw);opacity:.8}
+}
+
+@media (max-width:860px){
+  .hero__art{width:118vw;right:-30vw;top:calc(var(--header-h) + 1rem);transform:none;opacity:.42}
+}
+
+/* ---------- Hero art: four UX line patterns, one picked at random per visit ---------- */
+.hero__art .pattern{display:none;width:100%;height:auto;overflow:visible}
+.hero__art .pattern.is-on,.no-js .hero__art .pattern:first-child{display:block}
+.pt-line{fill:none;stroke:var(--white);stroke-width:2.25;stroke-linecap:round;stroke-linejoin:round;opacity:.2}
+.pt-strong{opacity:.34}
+.pt-dash{stroke-dasharray:4 10;opacity:.14}
+.pt-acc{fill:none;stroke:var(--turmeric);stroke-width:3.5;stroke-linecap:round;stroke-linejoin:round}
+.pt-dot{fill:var(--turmeric)}
+.pt-tint{fill:var(--turmeric);opacity:.16}
+.pt-label{fill:var(--turmeric);font-family:Barlow,system-ui,sans-serif;font-weight:600;font-size:22px}
+@keyframes pt-fade{from{opacity:0}to{opacity:1}}
+@media (prefers-reduced-motion:no-preference){
+  .js .hero__art .pattern.is-on .pt-draw{stroke-dasharray:1;stroke-dashoffset:1;animation:draw var(--t,1.2s) var(--ease-io) var(--d,.2s) forwards}
+  .js .hero__art .pattern.is-on .pt-fade{opacity:0;animation:pt-fade .6s var(--ease-out) var(--d,.2s) forwards}
+}

diff --git a/assets/js/main.js b/assets/js/main.js
@@ -105,25 +105,6 @@
     kiosk.addEventListener('animationstart', () => { n = 1; kioskN.textContent = n; });
   }
 
-  /* ---------- Hero kolam: dots brighten near the pointer ---------- */
-  const dots = $$('.kolam__dots circle');
-  dots.forEach((d, i) => d.style.setProperty('--i', i));
-  const kolamSvg = $('.kolam');
-  let kolamRect = null;
-  const kolamNear = (x, y) => {
-    if (!kolamSvg) return;
-    kolamRect = kolamRect || kolamSvg.getBoundingClientRect();
-    if (y > kolamRect.bottom + 100) return;
-    const sx = 620 / kolamRect.width, ox = kolamRect.left, oy = kolamRect.top;
-    const px = (x - ox) * sx - 30, py = (y - oy) * sx - 30;
-    dots.forEach(d => {
-      const dx = d.cx.baseVal.value - px, dy = d.cy.baseVal.value - py;
-      d.classList.toggle('is-near', dx * dx + dy * dy < 90 * 90);
-    });
-  };
-  addEventListener('resize', () => { kolamRect = null; }, { passive: true });
-  addEventListener('scroll', () => { kolamRect = null; }, { passive: true });
-
   /* ---------- Custom cursor ---------- */
   const cursor = $('.cursor');
   const enableCursor = () => finePointer.matches && !reduceMotion.matches;
@@ -151,13 +132,10 @@
       cursor.classList.toggle('has-label', !!text);
       cursor.classList.toggle('is-link', !!tgt && !text);
       if (text) label.textContent = text;
-      kolamNear(mx, my);
     }, { passive: true });
     document.addEventListener('pointerleave', () => cursor.classList.add('is-hidden'));
     addEventListener('pointerdown', () => cursor.classList.add('is-down'));
     addEventListener('pointerup', () => cursor.classList.remove('is-down'));
-  } else if (finePointer.matches) {
-    addEventListener('pointermove', e => kolamNear(e.clientX, e.clientY), { passive: true });
   }
 
   /* ---------- Magnetic buttons ---------- */

diff --git a/404.html b/404.html
@@ -5,7 +5,7 @@
 <title>Page not found — Prabhu Natarajan</title>
 <meta name="robots" content="noindex">
 <link rel="icon" href="/favicon.svg?v=4" type="image/svg+xml">
-<link rel="stylesheet" href="/assets/css/style.css?v=20261120g">
+<link rel="stylesheet" href="/assets/css/style.css?v=20261120h">
 </head>
 <body>
 <main class="hero" data-theme="dark" style="align-items:center">
